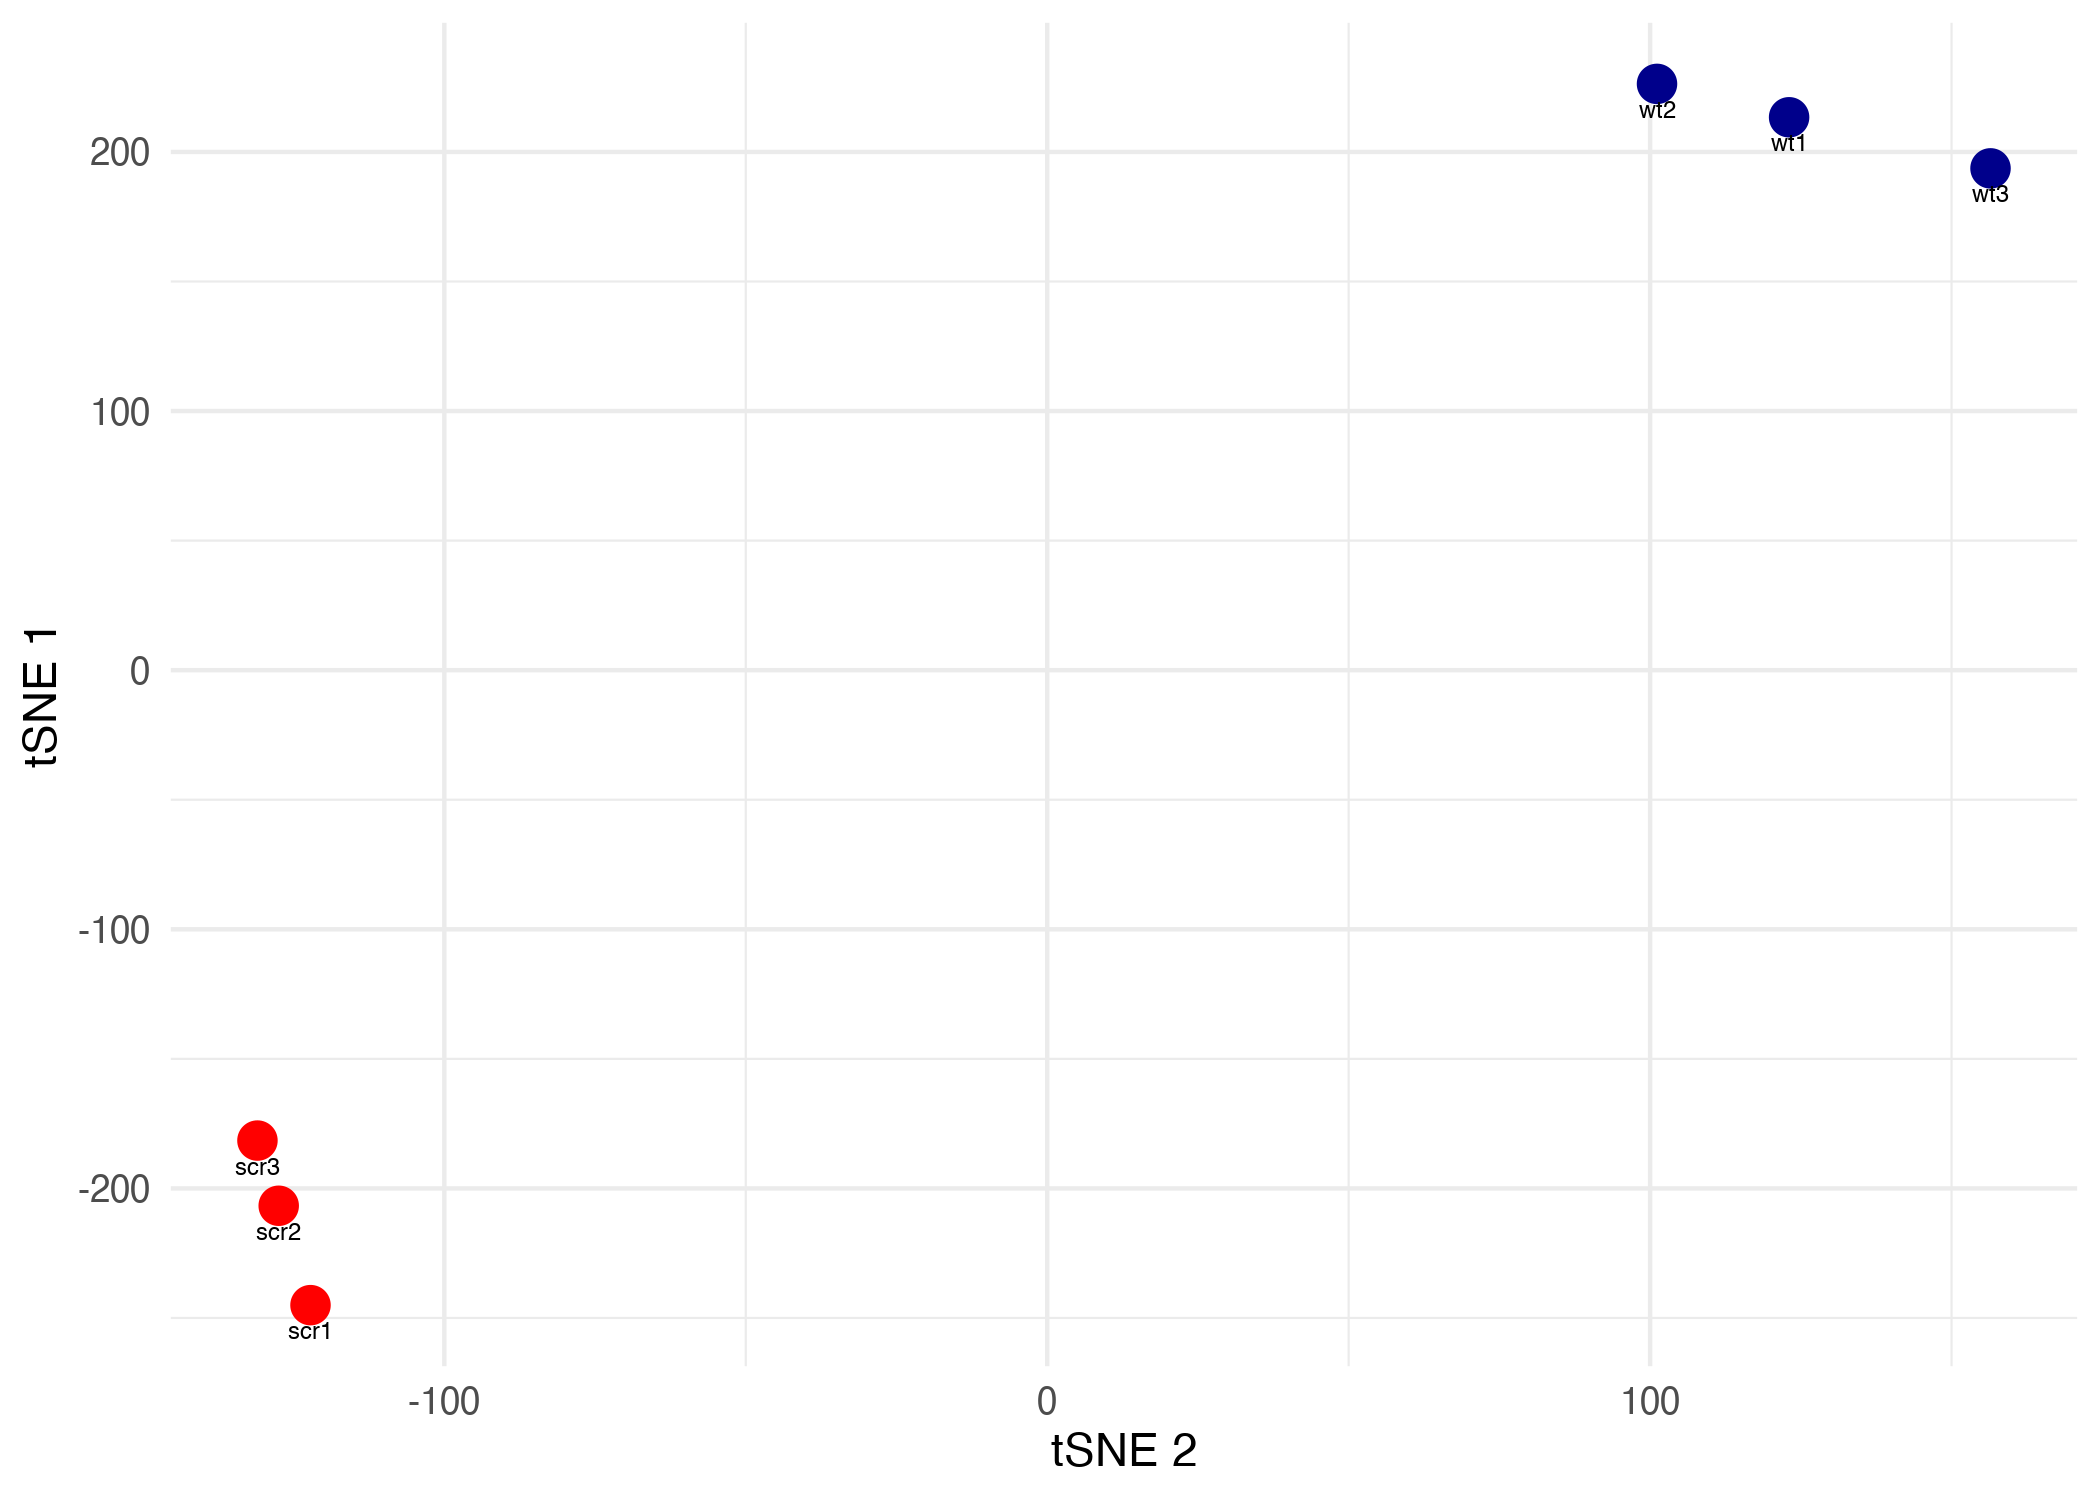
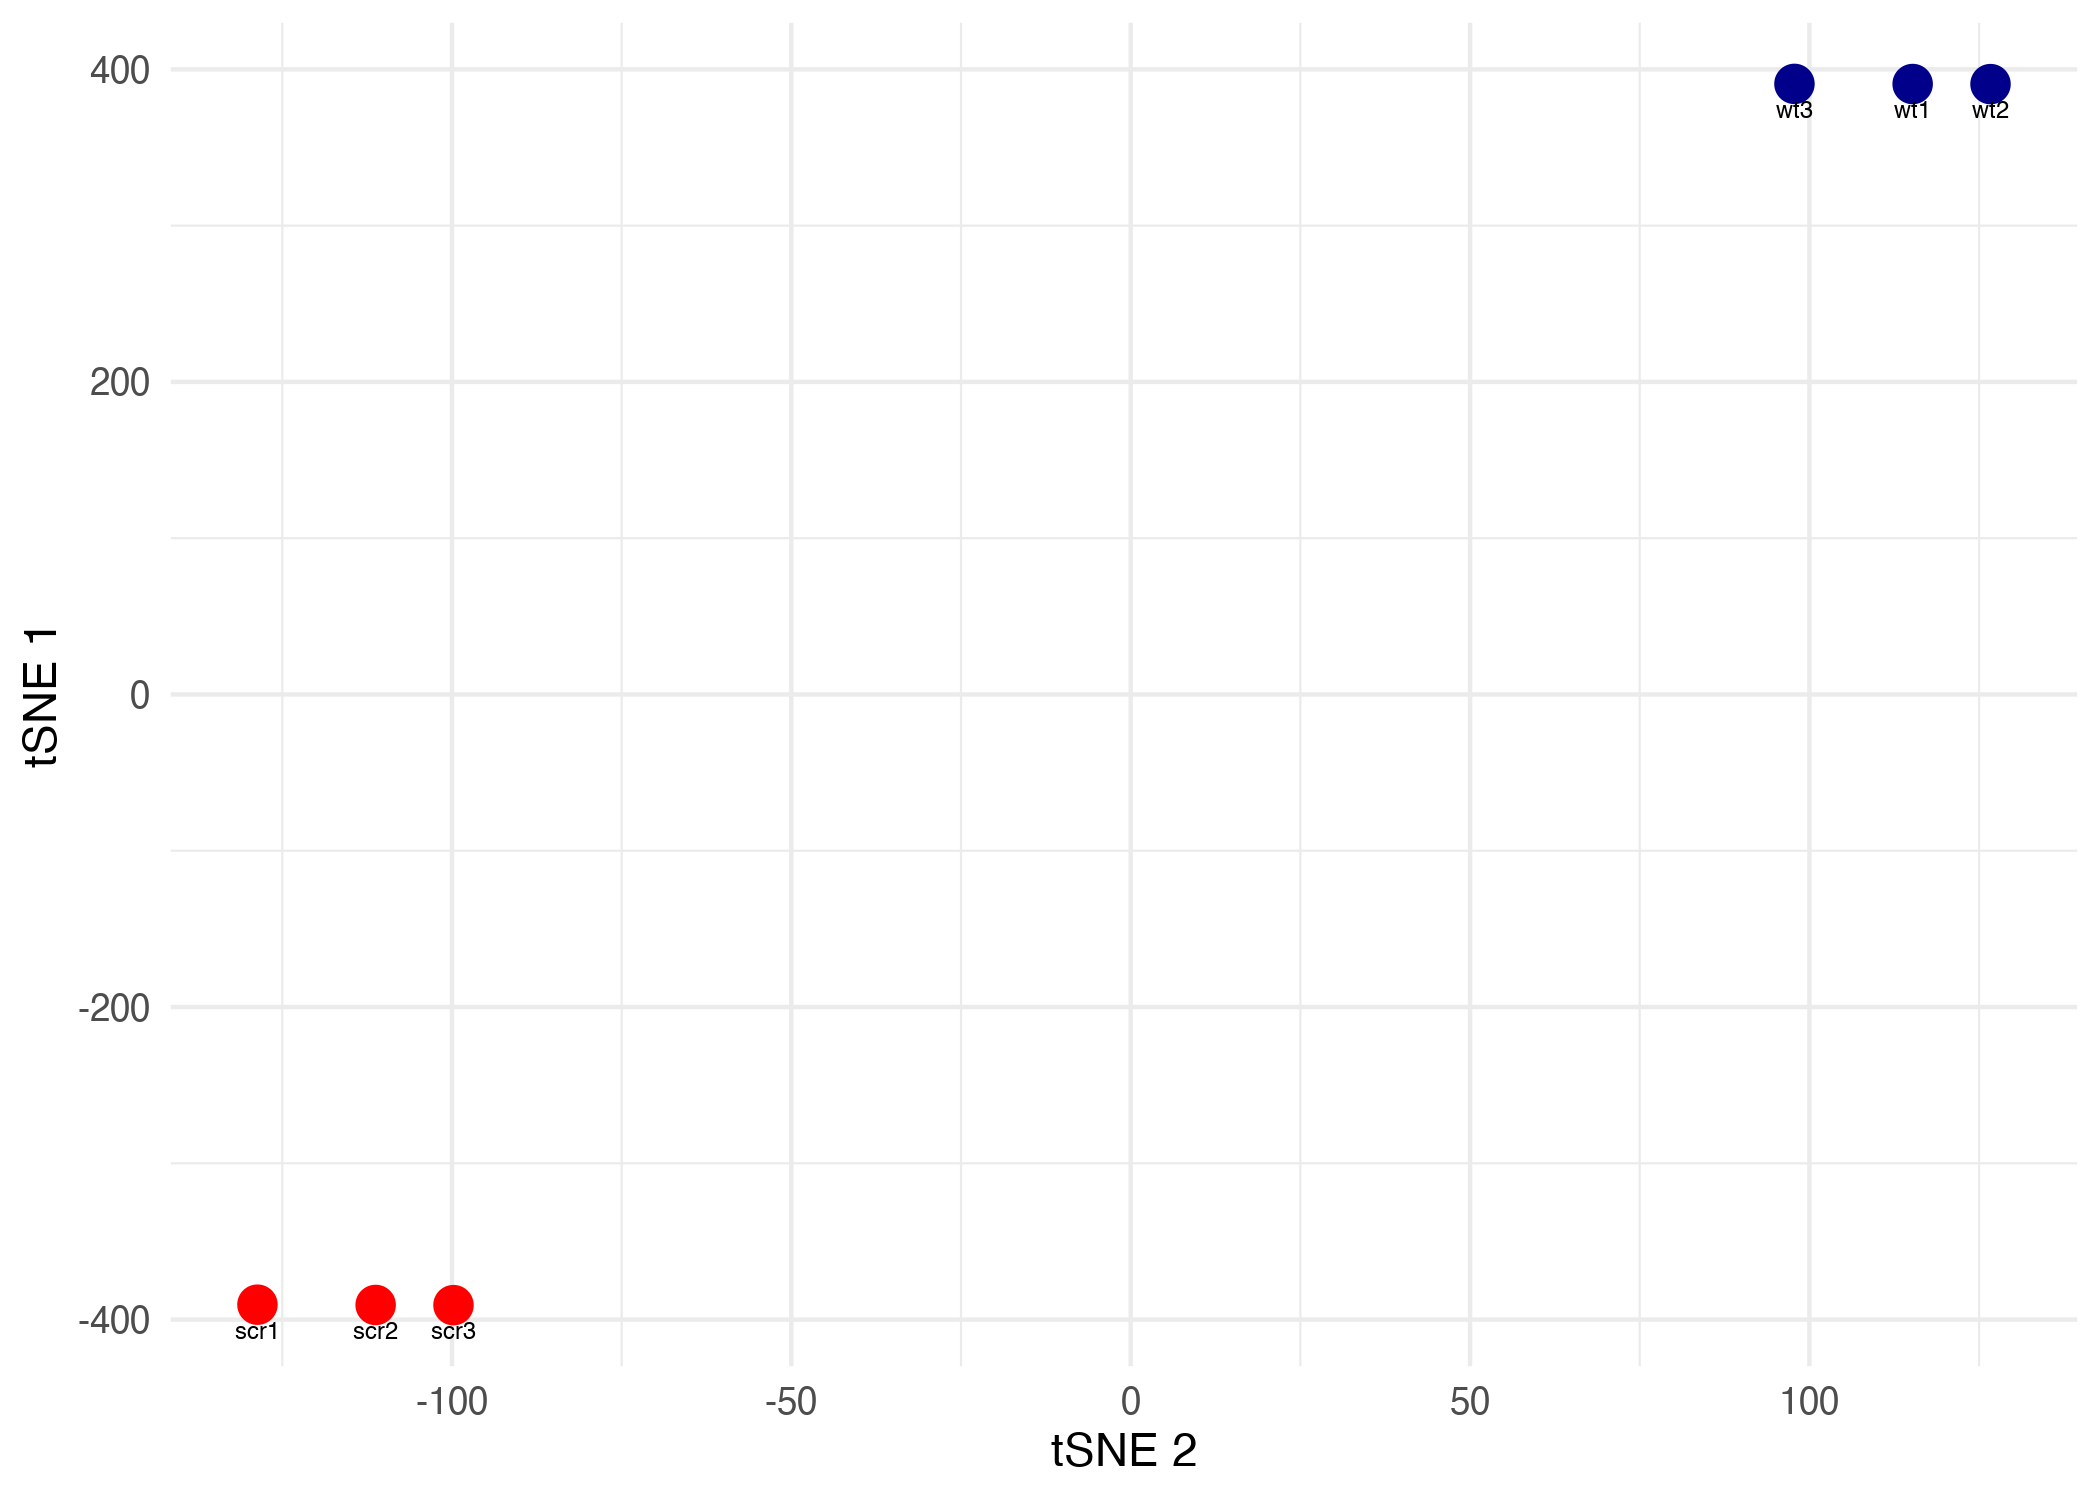
drna

diff --git a/WTAC_RNA_Transcriptomics_2023/nanopore_directRNA/nanopore_drna_seq.md b/WTAC_RNA_Transcriptomics_2023/nanopore_directRNA/nanopore_drna_seq.md
@@ -1,4 +1,4 @@
-Nanopore Direct RNA Seq - Practical 2
+Nanopore Direct RNA Seq - Practical
 ================
 Anton Enright & Jack Monahan
 '28 June, 2023'
@@ -16,6 +16,7 @@ Anton Enright & Jack Monahan
 - <a href="#creating-counts" id="toc-creating-counts">Creating counts</a>
 - <a href="#count-level-analysis" id="toc-count-level-analysis">Count
   Level Analysis</a>
+  - <a href="#tsne-plot" id="toc-tsne-plot">tSNE plot</a>
 - <a href="#statistical-analysis"
   id="toc-statistical-analysis">Statistical Analysis</a>
 
@@ -44,11 +45,6 @@ Will will use the PycoQC tool to make a QC summary for each set of
 Nanopore reads by group
 
     pycoQC -f summaries/group_1_summary.txt -o group_1_summary.html
-    pycoQC -f summaries/group_2_summary.txt -o group_2_summary.html
-    pycoQC -f summaries/group_3_summary.txt -o group_3_summary.html
-    pycoQC -f summaries/group_4_summary.txt -o group_4_summary.html
-    pycoQC -f summaries/group_5_summary.txt -o group_5_summary.html
-    pycoQC -f summaries/group_6_summary.txt -o group_6_summary.html
 
 # Mapping of Reads
 
@@ -105,9 +101,20 @@ splice*).
 # IGV
 
 We will now use the Integrated Genome Viewer (IGV) from the Broad
-Institute (MIT) to look at our samples. Start up IGV from your desktop
-and then make sure the mouse genome is selected. We will then load in
-the BAM files one at a time and explore.
+Institute (MIT) to look at our samples. We will then load in the BAM
+files one at a time in IGV and explore but we need to make an INDEX file
+for each genome bam first.
+
+    samtools index scr1_genome.bam
+    samtools index scr2_genome.bam
+    samtools index scr3_genome.bam
+
+    samtools index wt1_genome.bam
+    samtools index wt2_genome.bam
+    samtools index wt3_genome.bam
+
+Now we can launch IGV. Start up IGV from your desktop and then make sure
+the mouse genome is selected.
 
 # Creating counts
 
@@ -285,6 +292,18 @@ library(gplots)
                ##     lowess
 
 ``` r
+library(Rtsne)
+```
+
+               ## Warning: package 'Rtsne' was built under R version 4.1.2
+
+``` r
+library(ggplot2)
+```
+
+               ## Warning: package 'ggplot2' was built under R version 4.1.2
+
+``` r
 conds=c("scr","scr","scr","wt","wt","wt")
 coldata = as.data.frame(conds)
 rownames(coldata)=colnames(drna_counts)
@@ -355,17 +374,7 @@ text(pca2$x, as.vector(colnames(drna_counts)), pos=3, cex=0.4)
 
 ![](nanopore_drna_seq_files/figure-gfm/unnamed-chunk-5-3.png)<!-- -->
 
-``` r
-library(Rtsne)
-```
-
-               ## Warning: package 'Rtsne' was built under R version 4.1.2
-
-``` r
-library(ggplot2)
-```
-
-               ## Warning: package 'ggplot2' was built under R version 4.1.2
+## tSNE plot
 
 ``` r
 tsne <- Rtsne(t(normcounts), perplexity = 1, check_duplicates = FALSE)
